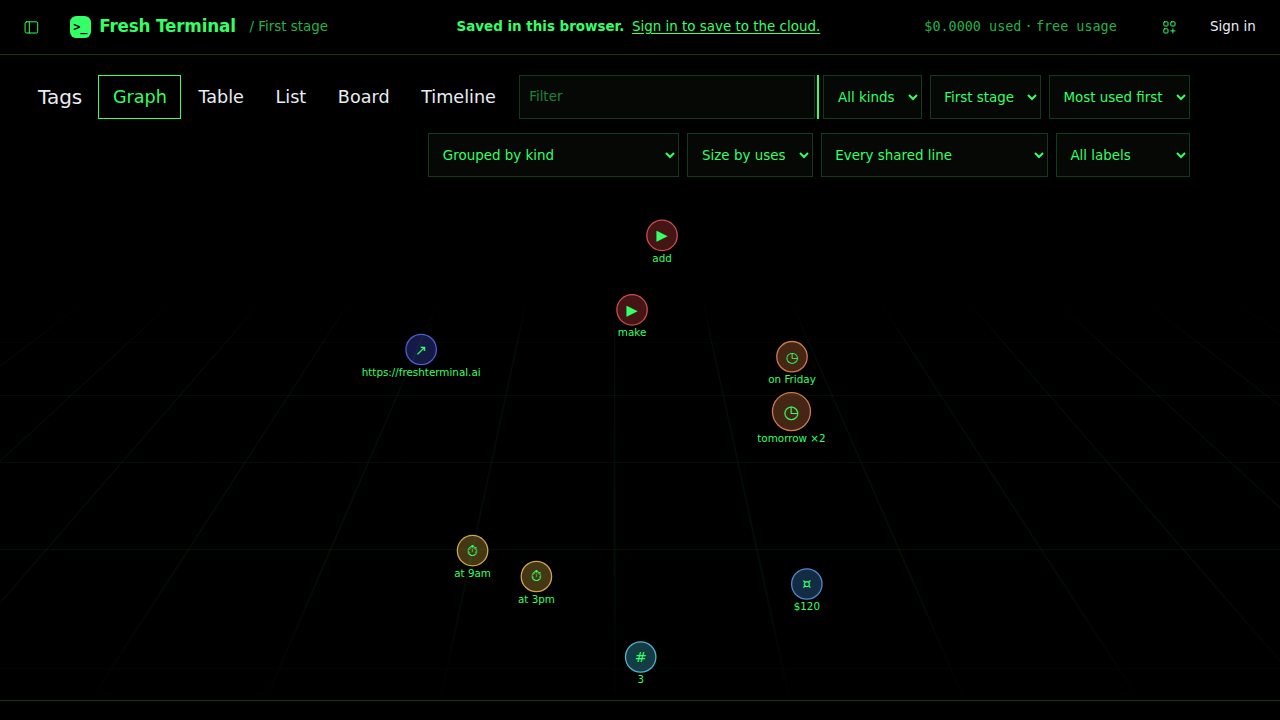
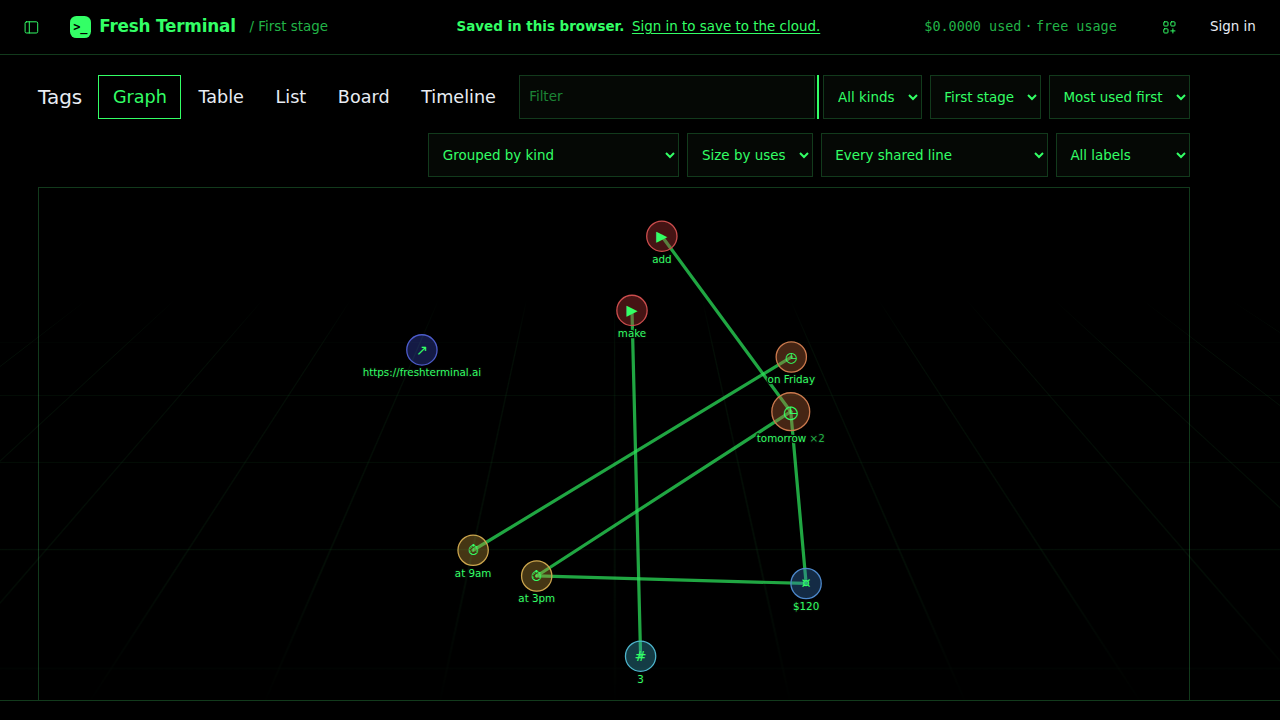
Tags page: use the app's own tokens (border, surface, fg-muted) so graph links and pills render
Claude-Session: https://claude.ai/code/session_01Sz7Wfkt3GHA3y6CcvStF4S

diff --git a/terminal/app/src/styles/app.css b/terminal/app/src/styles/app.css
@@ -4005,24 +4005,24 @@ textarea.field-input {
 .tag-pill { display: inline-flex; align-items: center; gap: 0.3rem; min-height: var(--target, 2.75rem); padding: 0 0.6rem; border-radius: 999px; border: 1px solid hsl(var(--tag-hue) 45% 50% / 0.55); background: hsl(var(--tag-hue) 55% 50% / 0.14); color: var(--fg); font: inherit; font-size: var(--type-whisper); cursor: pointer; max-width: 100%; }
 .tag-pill:hover { background: hsl(var(--tag-hue) 55% 50% / 0.26); }
 .tag-pill-icon { font-size: 0.85em; opacity: 0.9; }
-.tag-kind { color: var(--muted); }
-.tag-value { color: var(--muted); font-family: var(--mono); font-size: var(--type-whisper); }
+.tag-kind { color: var(--fg-muted); }
+.tag-value { color: var(--fg-muted); font-family: var(--mono); font-size: var(--type-whisper); }
 .tag-column h2 { border-bottom: 2px solid hsl(var(--tag-hue) 55% 50% / 0.6); }
 .tags-graph { margin: 0; display: grid; gap: 0.6rem; }
-.tags-graph svg { width: 100%; height: auto; max-height: min(72vh, 42rem); display: block; border: 1px solid var(--line); border-radius: var(--radius); background: color-mix(in srgb, var(--bg-2) 60%, transparent); }
-.tag-link { stroke: color-mix(in srgb, var(--accent) 55%, var(--muted)); stroke-opacity: 0.75; stroke-linecap: round; transition: stroke-opacity 0.15s; }
+.tags-graph svg { width: 100%; height: auto; max-height: min(72vh, 42rem); display: block; border: 1px solid var(--border); border-radius: var(--radius); background: color-mix(in srgb, var(--bg-elevated) 60%, transparent); }
+.tag-link { stroke: color-mix(in srgb, var(--accent) 55%, var(--fg-muted)); stroke-opacity: 0.75; stroke-linecap: round; transition: stroke-opacity 0.15s; }
 .tag-link[data-dim='true'] { stroke-opacity: 0.08; }
 .tag-node { cursor: pointer; outline: none; transition: opacity 0.15s; }
 .tag-node[data-dim='true'] { opacity: 0.25; }
 .tag-node circle { fill: hsl(var(--tag-hue) 55% 50% / 0.35); stroke: hsl(var(--tag-hue) 55% 55%); stroke-width: 1.5; }
 .tag-node:hover circle, .tag-node:focus-visible circle { fill: hsl(var(--tag-hue) 60% 50% / 0.6); stroke-width: 2.5; }
 .tag-node-icon { fill: var(--fg); pointer-events: none; }
-.tag-node-label { fill: var(--fg); pointer-events: none; paint-order: stroke; stroke: var(--bg); stroke-width: 3px; stroke-linejoin: round; }
-.tag-node-count { fill: var(--muted); }
-.tags-graph figcaption { display: flex; flex-wrap: wrap; gap: 0.4rem 0.8rem; align-items: center; color: var(--muted); font-size: var(--type-whisper); }
-.tag-legend { display: inline-flex; align-items: center; gap: 0.35rem; min-height: var(--target, 2.75rem); padding: 0 0.5rem; border-radius: 999px; border: 1px solid transparent; background: transparent; color: var(--muted); font: inherit; font-size: var(--type-whisper); cursor: pointer; }
+.tag-node-label { fill: var(--fg); pointer-events: none; paint-order: stroke; stroke: var(--surface); stroke-width: 3px; stroke-linejoin: round; }
+.tag-node-count { fill: var(--fg-muted); }
+.tags-graph figcaption { display: flex; flex-wrap: wrap; gap: 0.4rem 0.8rem; align-items: center; color: var(--fg-muted); font-size: var(--type-whisper); }
+.tag-legend { display: inline-flex; align-items: center; gap: 0.35rem; min-height: var(--target, 2.75rem); padding: 0 0.5rem; border-radius: 999px; border: 1px solid transparent; background: transparent; color: var(--fg-muted); font: inherit; font-size: var(--type-whisper); cursor: pointer; }
 .tag-legend i { width: 0.65em; height: 0.65em; border-radius: 50%; background: hsl(var(--tag-hue) 55% 55%); }
-.tag-legend[aria-pressed='true'] { border-color: var(--line-2); color: var(--fg); }
+.tag-legend[aria-pressed='true'] { border-color: var(--border); color: var(--fg); }
 .tags-timeline .act-tl-track { position: relative; }
 .tag-tl-bar { background: hsl(var(--tag-hue) 55% 50% / 0.35); }
 .tag-tl-dot { position: absolute; top: 50%; width: 0.55rem; height: 0.55rem; margin-left: -0.275rem; border-radius: 50%; background: hsl(var(--tag-hue) 55% 55%); transform: translateY(-50%); }
